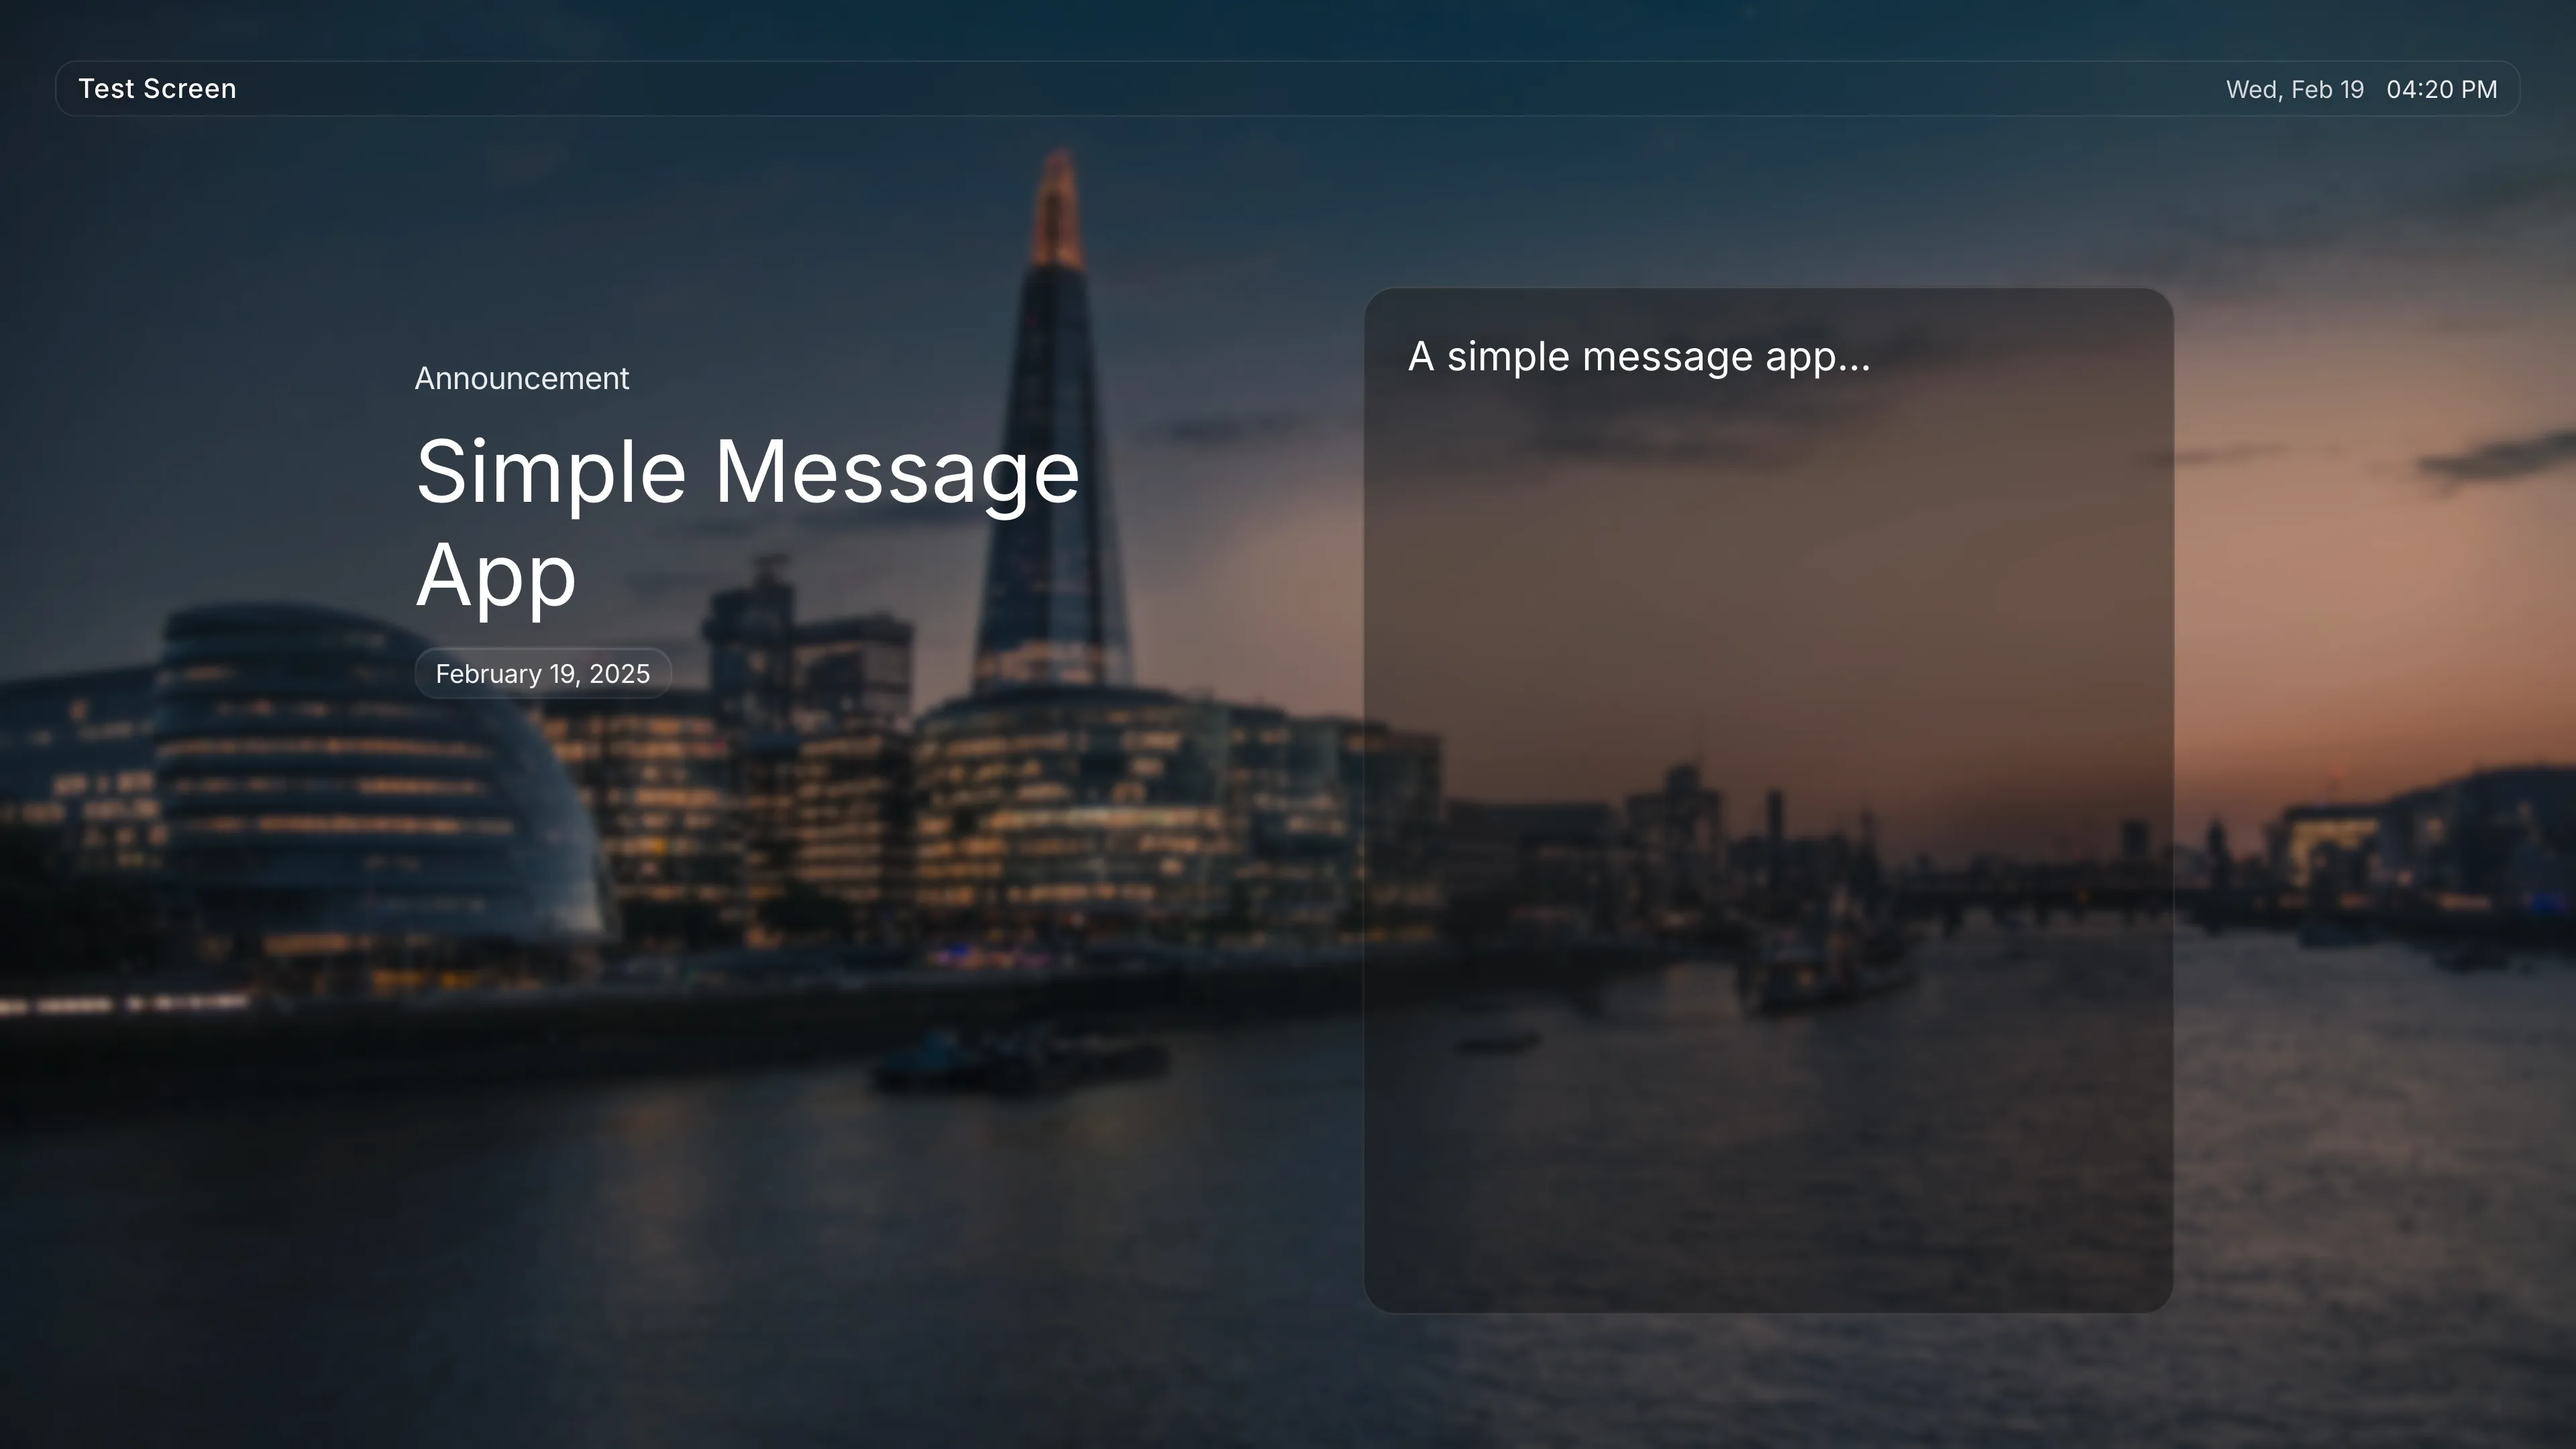
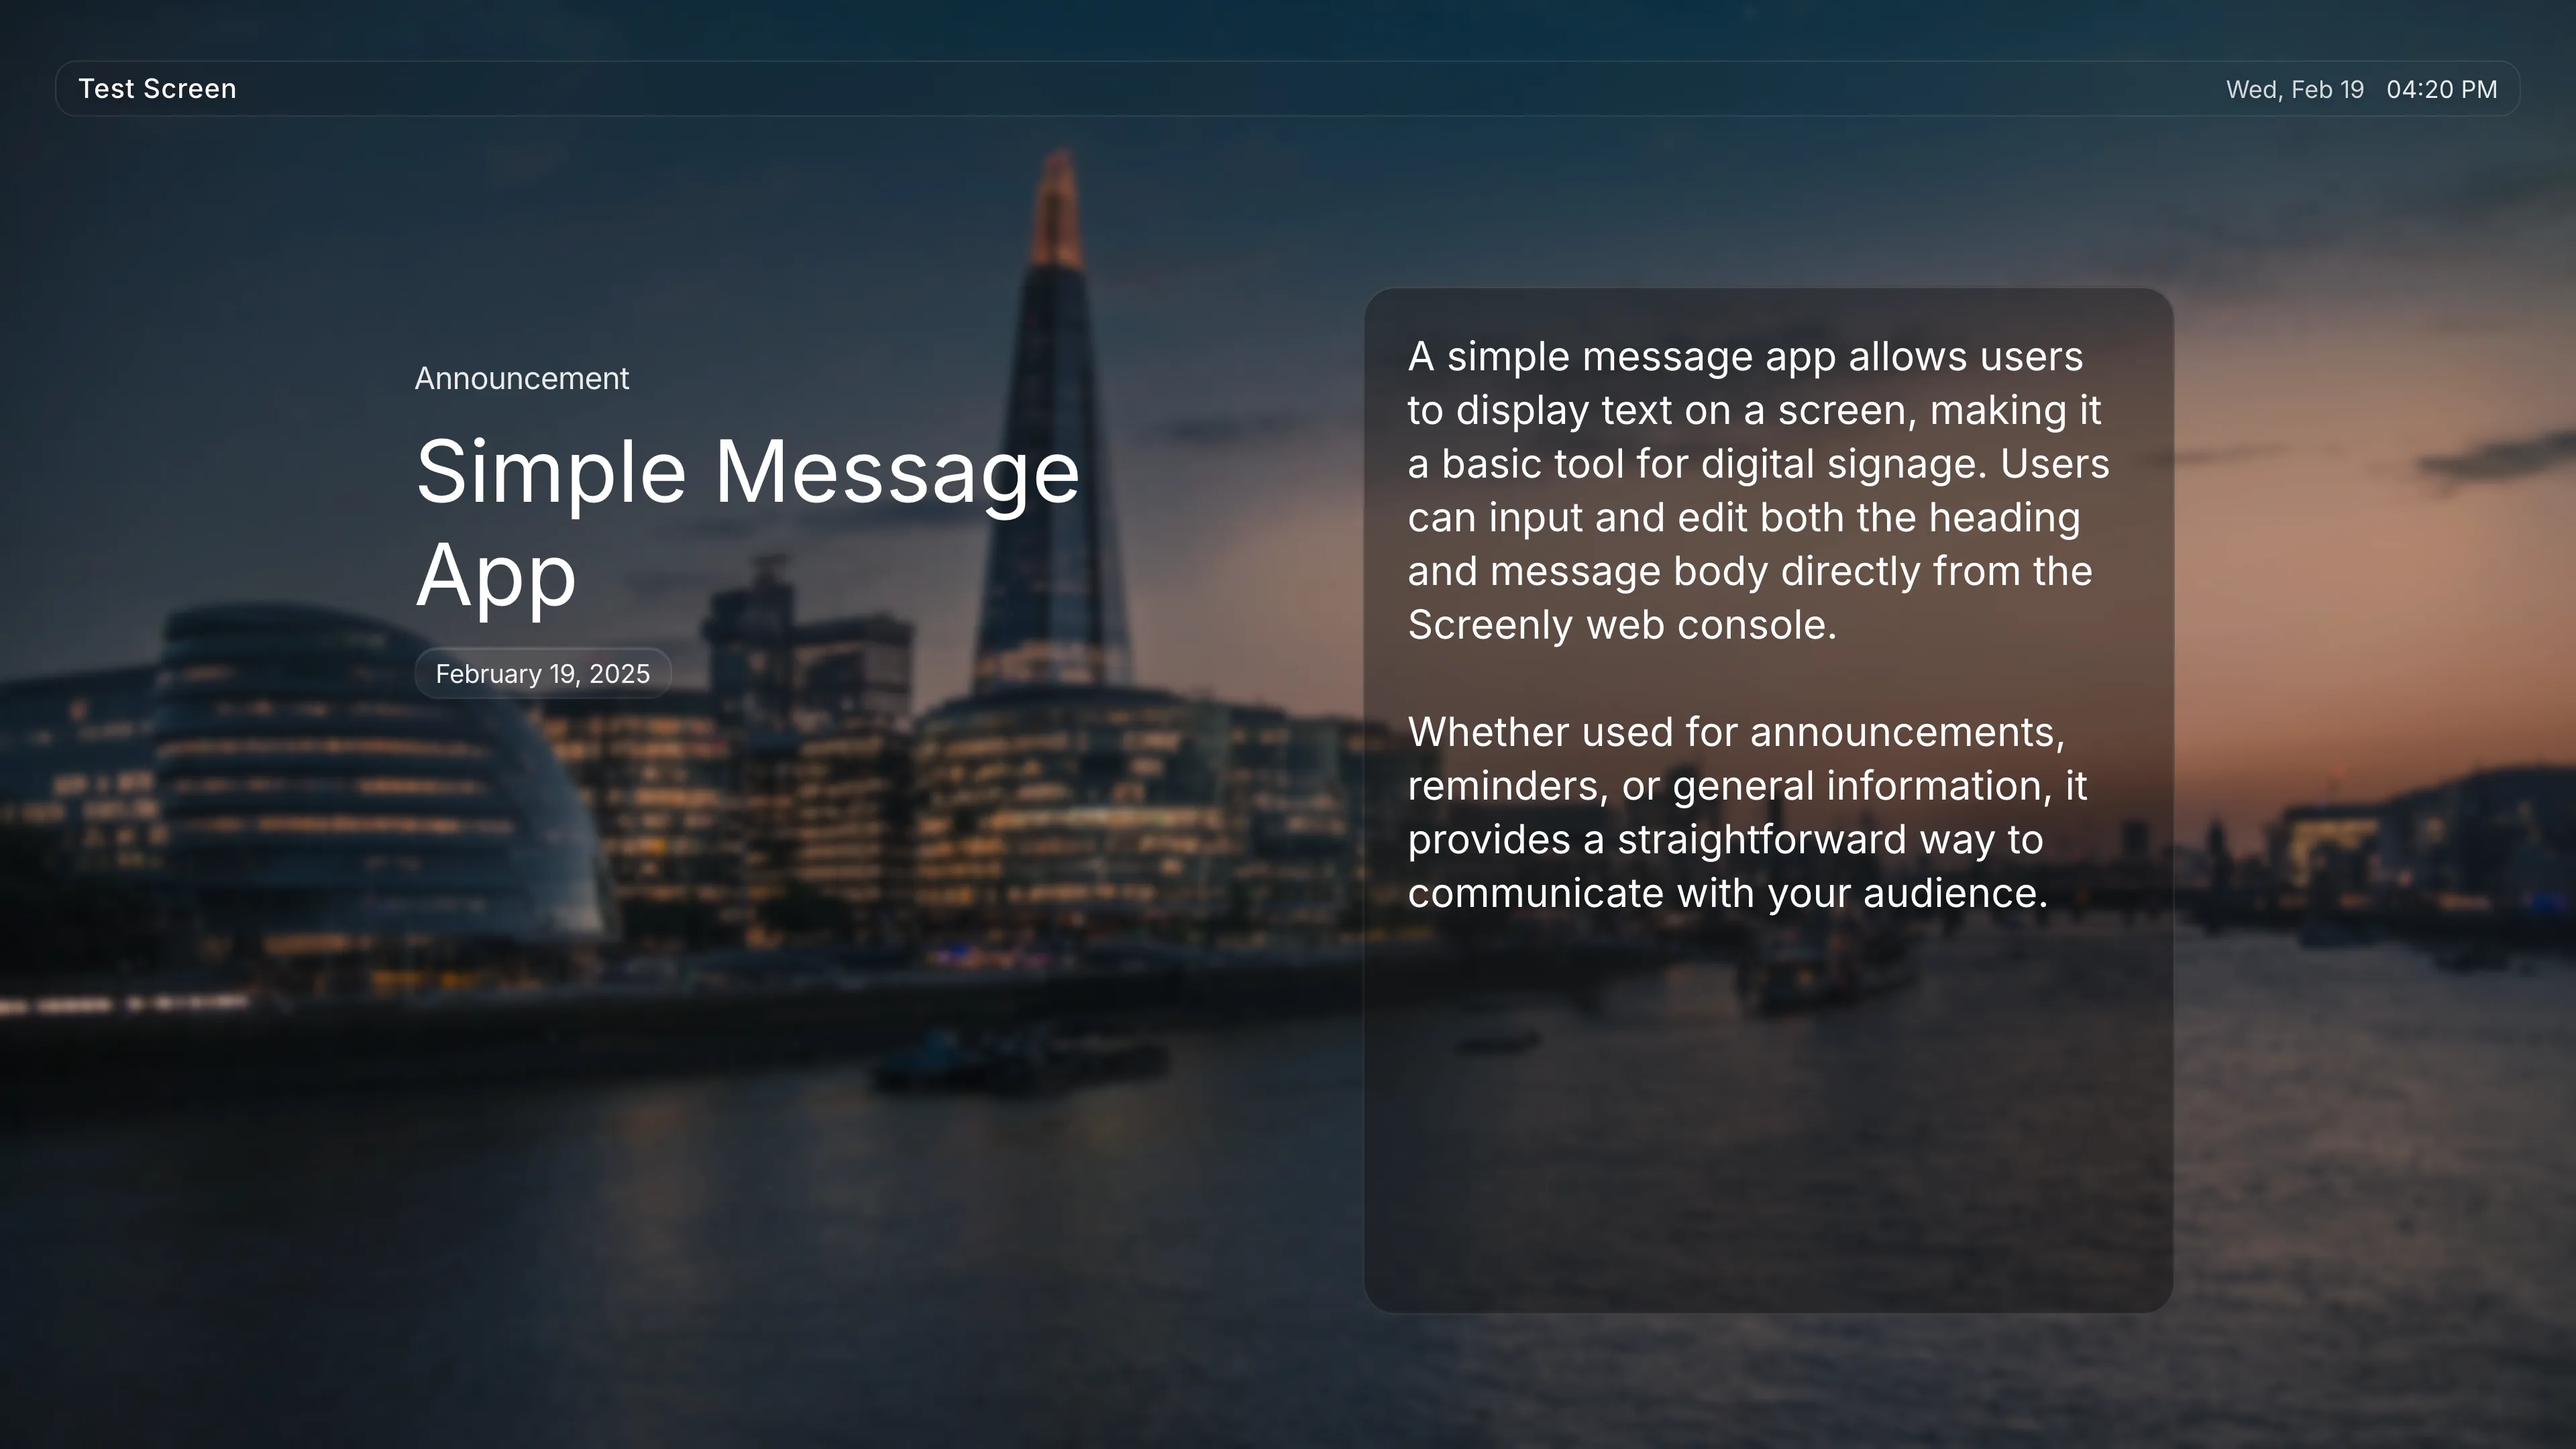
test(simple-message-app): expand screenshot fixture message body and regenerate screenshots
- Replace placeholder message_body with a two-paragraph descriptive text
- Regenerate all resolution screenshots to reflect the updated content

Changed region(s): [[0.5312, 0.2171, 0.8125, 0.4343], [0.5312, 0.4963, 0.8125, 0.6204]]

diff --git a/edge-apps/simple-message-app/e2e/screenshots.spec.ts b/edge-apps/simple-message-app/e2e/screenshots.spec.ts
@@ -12,7 +12,8 @@ const { screenlyJsContent } = createMockScreenlyForScreenshots(
   { coordinates: [40.7128, -74.006], location: 'New York, NY' },
   {
     enable_analytics: 'true',
-    message_body: 'A simple message app...',
+    message_body:
+      'A simple message app allows users to display text on a screen, making it a basic tool for digital signage. Users can input and edit both the heading and message body directly from the Screenly web console.\n\nWhether used for announcements, reminders, or general information, it provides a straightforward way to communicate with your audience.',
     message_header: 'Simple Message App',
     override_locale: 'en',
     override_timezone: 'America/New_York',
